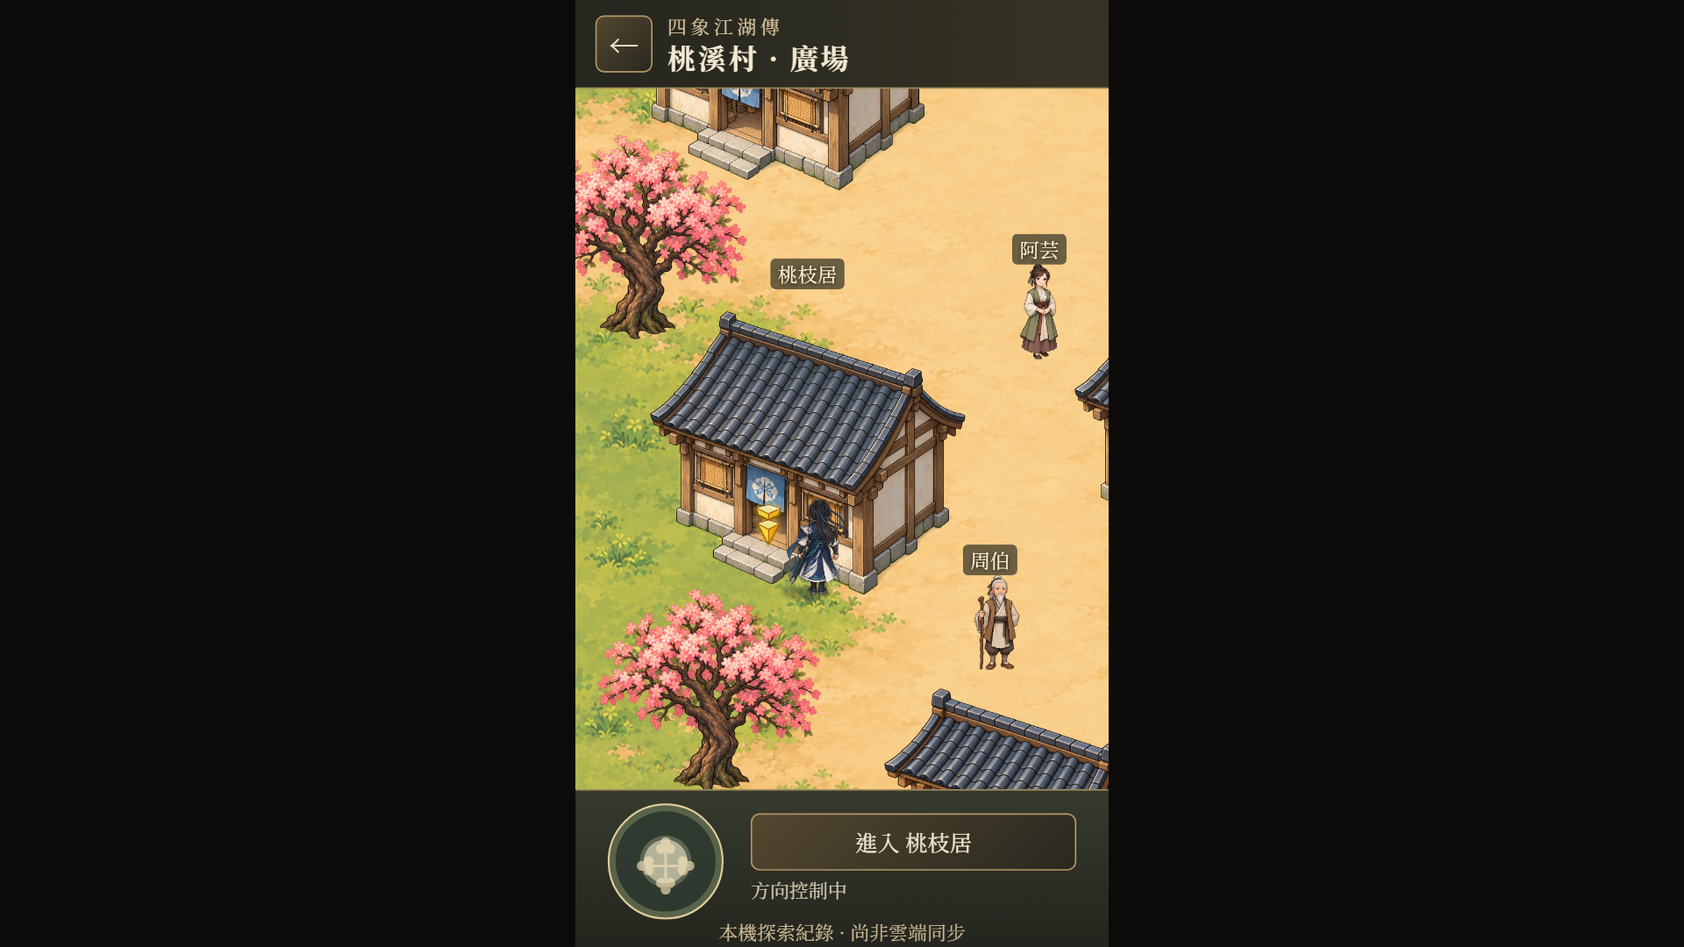
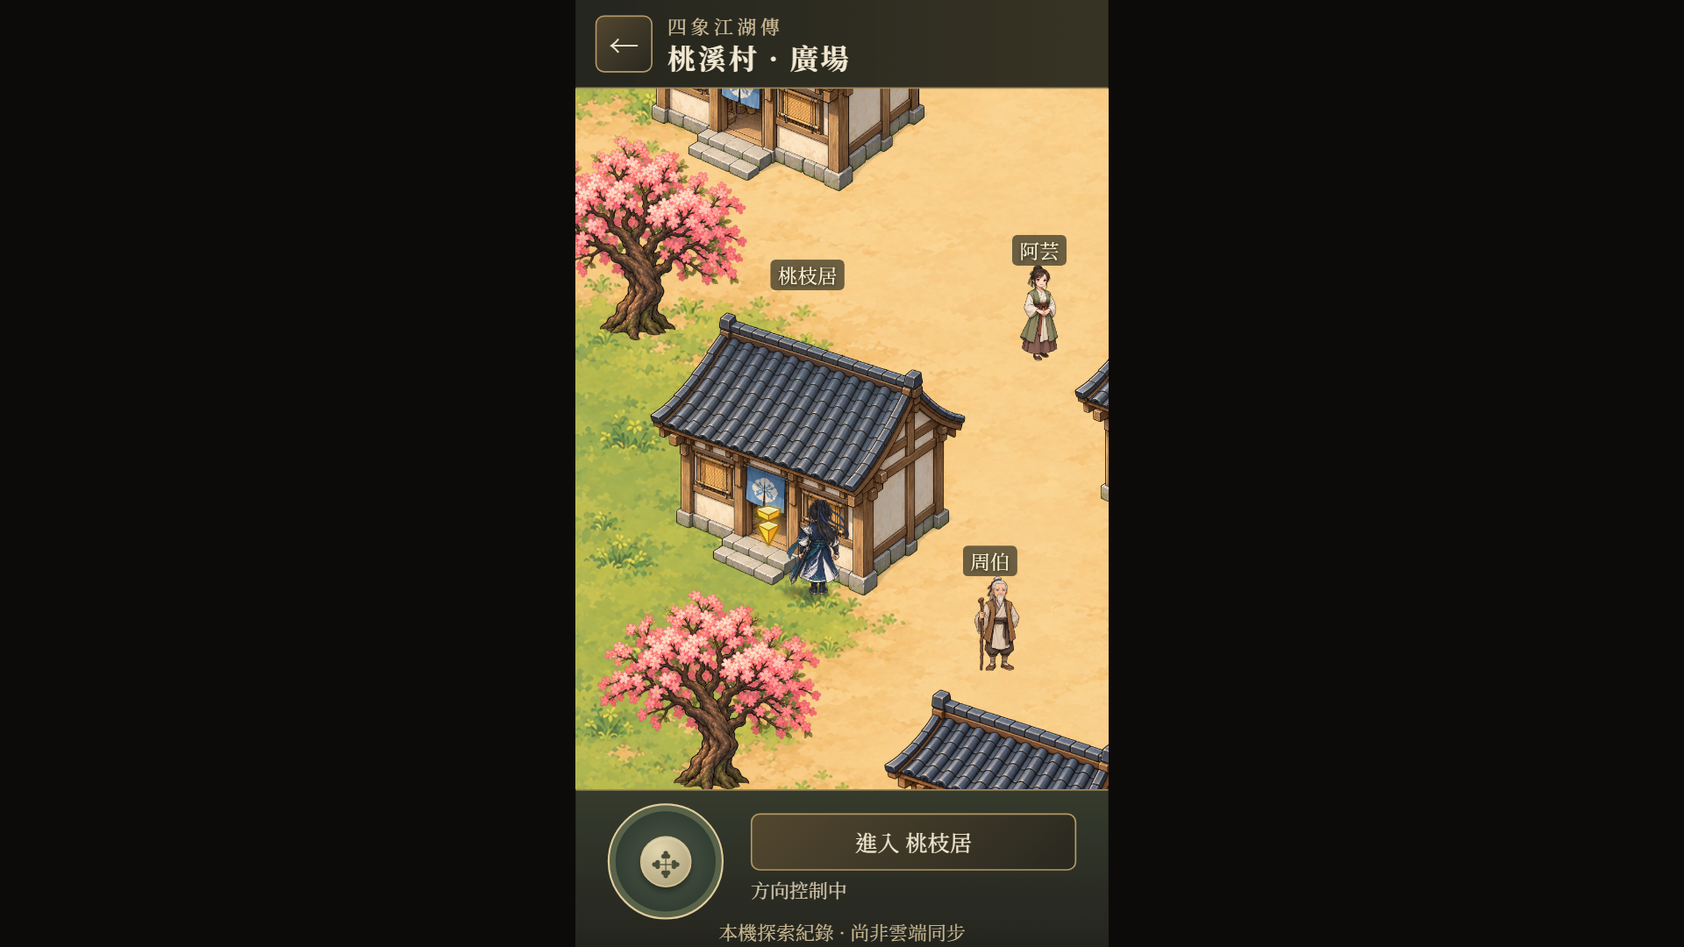
fix(exploration): refine touch feedback and NPC proximity after USB UX

diff --git a/build/feature-adventure-ui.232fe02442a6.js b/build/feature-adventure-ui.232fe02442a6.js
@@ -903,12 +903,14 @@ function mount(root,services={}){
   const eventToPoint=services.eventToPoint||scope.eventToGamePoint;
   if(typeof eventToPoint!=='function')throw new Error('Exploration requires the existing Display coordinate service');
   const data=services.scene||scene;
-  const nearby=position=>services.scene?data.objects.filter(o=>o.interaction&&Math.hypot(position.x-o.approach.x,position.y-o.approach.y)<(o.range||145)).sort((a,b)=>Math.hypot(position.x-a.approach.x,position.y-a.approach.y)-Math.hypot(position.x-b.approach.x,position.y-b.approach.y))[0]:nearNpc(position)?{id:'npc',label:'與村民招呼 · E'}:null;
-  let analog=null;
+  const distance=(position,object)=>{const point=object.interactionPoint||object.approach;return Math.hypot(position.x-point.x,position.y-point.y);};
+  const nearby=position=>services.scene?data.objects.filter(o=>o.interaction&&distance(position,o)<(o.range||145)).sort((a,b)=>distance(position,a)-distance(position,b))[0]:nearNpc(position)?{id:'npc',label:'與村民招呼 · E'}:null;
+  let analog=null,stickVector=null,thumbTransform=null;
   const world=root.querySelector('[data-world]'),actor=root.querySelector('[data-player]');
   const sprites=[...actor.querySelectorAll('[data-pose]')];
   const prompt=root.querySelector('[data-interact]');
   const viewport=root.querySelector('.explore-viewport'),marker=root.querySelector('[data-destination]'),status=root.querySelector('[data-status]');
+  const stick=root.querySelector('[data-joystick]'),thumb=stick?.querySelector('[data-stick-thumb]');
   const directions=new Map(),captures=new Map();
   let abort=null,active=false,generation=0,interactionGeneration=0,interactionCleanup=null;
   let state={...data.spawn,facing:'up',moving:false},frame=0,last=0,opened=false,disposed=false;
@@ -923,7 +925,7 @@ function mount(root,services={}){
   function cancelRoute(){route=[];destination=null;gesture=null;arrivalTarget=null;}
   function clearInput(){
     for(const [id,el] of captures){if(el.hasPointerCapture(id))el.releasePointerCapture(id);}
-    captures.clear();directions.clear();analog=null;cancelRoute();state.moving=false;last=0;render();
+    captures.clear();directions.clear();analog=null;stickVector=null;cancelRoute();state.moving=false;last=0;render();
   }
   function endInteraction(){
     interactionGeneration++;
@@ -934,7 +936,7 @@ function mount(root,services={}){
     try{endInteraction();}finally{clearInput();if(active)root.focus({preventScroll:true});}
   }
   function interact(targetId){
-    const target=typeof targetId==='string'?data.objects.find(o=>o.id===targetId&&o.interaction&&Math.hypot(state.x-o.approach.x,state.y-o.approach.y)<(o.range||145)):nearby(state);
+    const target=typeof targetId==='string'?data.objects.find(o=>o.id===targetId&&o.interaction&&distance(state,o)<(o.range||145)):nearby(state);
     if(!active||opened||!target)return;
     if(typeof services.onInteract!=='function'){status.textContent='對話尚未接通';return;}
     opened=true;clearInput();const token=generation,interactionToken=++interactionGeneration;
@@ -959,7 +961,7 @@ function mount(root,services={}){
   const signal=abort.signal;
   const keys={ArrowUp:'up',w:'up',W:'up',ArrowDown:'down',s:'down',S:'down',ArrowLeft:'left',a:'left',A:'left',ArrowRight:'right',d:'right',D:'right'};
   root.addEventListener('keydown',e=>{
-    if(keys[e.key]){e.preventDefault();if(!opened&&!e.repeat){cancelRoute();analog=null;directions.set('key:'+e.code,keys[e.key]);status.textContent='方向控制中';}}
+    if(keys[e.key]){e.preventDefault();if(!opened&&!e.repeat){cancelRoute();analog=null;stickVector=null;directions.set('key:'+e.code,keys[e.key]);status.textContent='方向控制中';}}
     if((e.key==='e'||e.key==='E')&&!e.repeat){e.preventDefault();interact();}
     if(e.key==='Escape'){e.preventDefault();if(opened)closeInteraction();else requestExit();}
   },{signal});
@@ -978,7 +980,7 @@ function mount(root,services={}){
     gesture={id:e.pointerId};viewport.setPointerCapture(e.pointerId);captures.set(e.pointerId,viewport);
     // Commit at contact, using the current position/camera. Release must not
     // replay a stale target after the character and camera have moved.
-    e.preventDefault();directions.clear();analog=null;
+    e.preventDefault();directions.clear();analog=null;stickVector=null;
     let point;
     try{
       point=eventToPoint(e);
@@ -997,14 +999,14 @@ function mount(root,services={}){
   },{signal});
   viewport.addEventListener('pointerup',e=>{captures.delete(e.pointerId);if(gesture?.id===e.pointerId)gesture=null;},{signal});
   viewport.addEventListener('pointercancel',e=>{if(gesture?.id===e.pointerId)clearInput();},{signal});
-  const joystick=root.querySelector('[data-joystick]');
+  const joystick=stick;
   if(joystick){
     let stickId=null;
     const point=e=>{const p=eventToPoint(e);return [p.x-joystick.offsetLeft-joystick.offsetWidth/2,p.y-(joystick.parentElement.offsetTop||0)-joystick.offsetTop-joystick.offsetHeight/2];};
-    const update=e=>{if(e.pointerId!==stickId)return;e.preventDefault();const [x,y]=point(e);analog=Math.hypot(x,y)>18?[x,y]:null;};
+    const update=e=>{if(e.pointerId!==stickId)return;e.preventDefault();const [x,y]=point(e);stickVector=[x,y];analog=Math.hypot(x,y)>18?stickVector:null;};
     joystick.addEventListener('pointerdown',e=>{if(opened||stickId!==null||!e.isPrimary)return;e.preventDefault();stickId=e.pointerId;cancelRoute();directions.clear();joystick.setPointerCapture(e.pointerId);captures.set(e.pointerId,joystick);update(e);},{signal});
     joystick.addEventListener('pointermove',update,{signal});
-    for(const type of ['pointerup','pointercancel','lostpointercapture'])joystick.addEventListener(type,e=>{if(e.pointerId===stickId){stickId=null;analog=null;captures.delete(e.pointerId);}},{signal});
+    for(const type of ['pointerup','pointercancel','lostpointercapture'])joystick.addEventListener(type,e=>{if(e.pointerId===stickId){stickId=null;analog=null;stickVector=null;captures.delete(e.pointerId);}},{signal});
   }
   prompt.addEventListener('click',interact,{signal});
   root.querySelector('[data-exit]')?.addEventListener('click',requestExit,{signal});
@@ -1017,6 +1019,12 @@ function mount(root,services={}){
     world.style.transform=`translate(${-camera.x}px,${-camera.y}px)`;
     actor.style.left=state.x+'px';actor.style.top=state.y+'px';actor.style.zIndex=String(Math.round(state.y));
     actor.dataset.facing=state.facing;actor.classList.toggle('is-walking',state.moving);
+    if(stick){
+      stick.classList.toggle('is-held',[...captures.values()].includes(stick));
+      if(thumb){const length=stickVector?Math.hypot(...stickVector):0,max=Math.max(0,(stick.offsetWidth-thumb.offsetWidth)/2-10),scale=length?Math.min(1,max/length):0;
+        const x=stickVector?stickVector[0]*scale:0,y=stickVector?stickVector[1]*scale:0,value=`translate(calc(-50% + ${x.toFixed(1)}px),calc(-50% + ${y.toFixed(1)}px))`;
+        if(thumbTransform!==value){thumb.style.transform=value;thumbTransform=value;}}
+    }
     const pose=state.moving?(Math.floor(walkTime/.16)%4===0?1:Math.floor(walkTime/.16)%4===2?2:0):0;
     // Keep external SVG instances stable: changing href briefly clears their
     // geometry in Chrome. The same render owner selects one preloaded pose.
@@ -1118,7 +1126,7 @@ function village(spawn){
     {id:'gate-left',art:'solid',x:0,y:0,width:0,height:0,solid:{x:680,y:2910,width:65,height:65}},
     {id:'gate-right',art:'solid',x:0,y:0,width:0,height:0,solid:{x:1060,y:2980,width:70,height:70}},
     ...houses.map(h=>({...h,art:'house',width:660,height:660,sortY:h.y-65,solid:{x:h.x-260,y:h.y-370,width:520,height:305},approach:{x:h.x-80,y:h.y+40},hitbox:{x:h.x-120,y:h.y-240,width:240,height:350},interaction:'house',label:'進入 '+h.name})),
-    ...npcs.map(n=>({...n,art:'npc',width:200,height:200,approach:{x:n.x,y:n.y+100},hitbox:{x:n.x-45,y:n.y-185,width:90,height:185},interaction:'talk',label:'交談 · '+n.name})),
+    ...npcs.map(n=>({...n,art:'npc',width:200,height:200,approach:{x:n.x,y:n.y+100},interactionPoint:{x:n.x,y:n.y},hitbox:{x:n.x-45,y:n.y-185,width:90,height:185},interaction:'talk',label:'交談 · '+n.name})),
     ...[[280,2810],[1520,2750],[130,1890],[1690,1710],[150,830],[1640,650]].map(([x,y],i)=>({id:'peach-'+i,art:'peach',x,y,width:480,height:600,solid:{x:x-23,y:y-50,width:46,height:50}}))
   ]};
 }
@@ -1245,7 +1253,7 @@ function scene(id,spawn){
     '<div class="explore-viewport taoxi-viewport"><div class="explore-world taoxi-world" data-world style="width:'+data.width+'px;height:'+data.height+'px">'+
     '<div class="taoxi-ground '+(id==='village'?'taoxi-village-ground':'taoxi-room-ground')+'"></div>'+
     '<div class="explore-player taoxi-player" data-player><span class="explore-shadow"></span><span class="taoxi-character" style="background-image:url('+asset(appearance)+')"></span></div><span class="explore-destination" data-destination hidden></span></div></div>'+
-    '<footer class="taoxi-controls"><div data-joystick class="taoxi-joystick" aria-label="虛擬搖桿"><span aria-hidden="true">✥</span></div><div><button type="button" data-interact disabled>靠近可互動</button><p data-status role="status">點地移動，也可拖動左側搖桿。</p></div></footer>'+
+    '<footer class="taoxi-controls"><div data-joystick class="taoxi-joystick" aria-label="虛擬搖桿"><span data-stick-thumb aria-hidden="true">✥</span></div><div><button type="button" data-interact disabled>靠近可互動</button><p data-status role="status">點地移動，也可拖動左側搖桿。</p></div></footer>'+
     '<p class="taoxi-save-note">本機探索紀錄 · 尚非雲端同步</p>';
   const character=root.querySelector('.taoxi-character');
   controller=scope.FourSymbolsExploration.mount(root,{

diff --git a/prototypes/exploration-corner/runtime.js b/prototypes/exploration-corner/runtime.js
@@ -12,12 +12,14 @@ function mount(root,services={}){
   const eventToPoint=services.eventToPoint||scope.eventToGamePoint;
   if(typeof eventToPoint!=='function')throw new Error('Exploration requires the existing Display coordinate service');
   const data=services.scene||scene;
-  const nearby=position=>services.scene?data.objects.filter(o=>o.interaction&&Math.hypot(position.x-o.approach.x,position.y-o.approach.y)<(o.range||145)).sort((a,b)=>Math.hypot(position.x-a.approach.x,position.y-a.approach.y)-Math.hypot(position.x-b.approach.x,position.y-b.approach.y))[0]:nearNpc(position)?{id:'npc',label:'與村民招呼 · E'}:null;
-  let analog=null;
+  const distance=(position,object)=>{const point=object.interactionPoint||object.approach;return Math.hypot(position.x-point.x,position.y-point.y);};
+  const nearby=position=>services.scene?data.objects.filter(o=>o.interaction&&distance(position,o)<(o.range||145)).sort((a,b)=>distance(position,a)-distance(position,b))[0]:nearNpc(position)?{id:'npc',label:'與村民招呼 · E'}:null;
+  let analog=null,stickVector=null,thumbTransform=null;
   const world=root.querySelector('[data-world]'),actor=root.querySelector('[data-player]');
   const sprites=[...actor.querySelectorAll('[data-pose]')];
   const prompt=root.querySelector('[data-interact]');
   const viewport=root.querySelector('.explore-viewport'),marker=root.querySelector('[data-destination]'),status=root.querySelector('[data-status]');
+  const stick=root.querySelector('[data-joystick]'),thumb=stick?.querySelector('[data-stick-thumb]');
   const directions=new Map(),captures=new Map();
   let abort=null,active=false,generation=0,interactionGeneration=0,interactionCleanup=null;
   let state={...data.spawn,facing:'up',moving:false},frame=0,last=0,opened=false,disposed=false;
@@ -32,7 +34,7 @@ function mount(root,services={}){
   function cancelRoute(){route=[];destination=null;gesture=null;arrivalTarget=null;}
   function clearInput(){
     for(const [id,el] of captures){if(el.hasPointerCapture(id))el.releasePointerCapture(id);}
-    captures.clear();directions.clear();analog=null;cancelRoute();state.moving=false;last=0;render();
+    captures.clear();directions.clear();analog=null;stickVector=null;cancelRoute();state.moving=false;last=0;render();
   }
   function endInteraction(){
     interactionGeneration++;
@@ -43,7 +45,7 @@ function mount(root,services={}){
     try{endInteraction();}finally{clearInput();if(active)root.focus({preventScroll:true});}
   }
   function interact(targetId){
-    const target=typeof targetId==='string'?data.objects.find(o=>o.id===targetId&&o.interaction&&Math.hypot(state.x-o.approach.x,state.y-o.approach.y)<(o.range||145)):nearby(state);
+    const target=typeof targetId==='string'?data.objects.find(o=>o.id===targetId&&o.interaction&&distance(state,o)<(o.range||145)):nearby(state);
     if(!active||opened||!target)return;
     if(typeof services.onInteract!=='function'){status.textContent='對話尚未接通';return;}
     opened=true;clearInput();const token=generation,interactionToken=++interactionGeneration;
@@ -68,7 +70,7 @@ function mount(root,services={}){
   const signal=abort.signal;
   const keys={ArrowUp:'up',w:'up',W:'up',ArrowDown:'down',s:'down',S:'down',ArrowLeft:'left',a:'left',A:'left',ArrowRight:'right',d:'right',D:'right'};
   root.addEventListener('keydown',e=>{
-    if(keys[e.key]){e.preventDefault();if(!opened&&!e.repeat){cancelRoute();analog=null;directions.set('key:'+e.code,keys[e.key]);status.textContent='方向控制中';}}
+    if(keys[e.key]){e.preventDefault();if(!opened&&!e.repeat){cancelRoute();analog=null;stickVector=null;directions.set('key:'+e.code,keys[e.key]);status.textContent='方向控制中';}}
     if((e.key==='e'||e.key==='E')&&!e.repeat){e.preventDefault();interact();}
     if(e.key==='Escape'){e.preventDefault();if(opened)closeInteraction();else requestExit();}
   },{signal});
@@ -87,7 +89,7 @@ function mount(root,services={}){
     gesture={id:e.pointerId};viewport.setPointerCapture(e.pointerId);captures.set(e.pointerId,viewport);
     // Commit at contact, using the current position/camera. Release must not
     // replay a stale target after the character and camera have moved.
-    e.preventDefault();directions.clear();analog=null;
+    e.preventDefault();directions.clear();analog=null;stickVector=null;
     let point;
     try{
       point=eventToPoint(e);
@@ -106,14 +108,14 @@ function mount(root,services={}){
   },{signal});
   viewport.addEventListener('pointerup',e=>{captures.delete(e.pointerId);if(gesture?.id===e.pointerId)gesture=null;},{signal});
   viewport.addEventListener('pointercancel',e=>{if(gesture?.id===e.pointerId)clearInput();},{signal});
-  const joystick=root.querySelector('[data-joystick]');
+  const joystick=stick;
   if(joystick){
     let stickId=null;
     const point=e=>{const p=eventToPoint(e);return [p.x-joystick.offsetLeft-joystick.offsetWidth/2,p.y-(joystick.parentElement.offsetTop||0)-joystick.offsetTop-joystick.offsetHeight/2];};
-    const update=e=>{if(e.pointerId!==stickId)return;e.preventDefault();const [x,y]=point(e);analog=Math.hypot(x,y)>18?[x,y]:null;};
+    const update=e=>{if(e.pointerId!==stickId)return;e.preventDefault();const [x,y]=point(e);stickVector=[x,y];analog=Math.hypot(x,y)>18?stickVector:null;};
     joystick.addEventListener('pointerdown',e=>{if(opened||stickId!==null||!e.isPrimary)return;e.preventDefault();stickId=e.pointerId;cancelRoute();directions.clear();joystick.setPointerCapture(e.pointerId);captures.set(e.pointerId,joystick);update(e);},{signal});
     joystick.addEventListener('pointermove',update,{signal});
-    for(const type of ['pointerup','pointercancel','lostpointercapture'])joystick.addEventListener(type,e=>{if(e.pointerId===stickId){stickId=null;analog=null;captures.delete(e.pointerId);}},{signal});
+    for(const type of ['pointerup','pointercancel','lostpointercapture'])joystick.addEventListener(type,e=>{if(e.pointerId===stickId){stickId=null;analog=null;stickVector=null;captures.delete(e.pointerId);}},{signal});
   }
   prompt.addEventListener('click',interact,{signal});
   root.querySelector('[data-exit]')?.addEventListener('click',requestExit,{signal});
@@ -126,6 +128,12 @@ function mount(root,services={}){
     world.style.transform=`translate(${-camera.x}px,${-camera.y}px)`;
     actor.style.left=state.x+'px';actor.style.top=state.y+'px';actor.style.zIndex=String(Math.round(state.y));
     actor.dataset.facing=state.facing;actor.classList.toggle('is-walking',state.moving);
+    if(stick){
+      stick.classList.toggle('is-held',[...captures.values()].includes(stick));
+      if(thumb){const length=stickVector?Math.hypot(...stickVector):0,max=Math.max(0,(stick.offsetWidth-thumb.offsetWidth)/2-10),scale=length?Math.min(1,max/length):0;
+        const x=stickVector?stickVector[0]*scale:0,y=stickVector?stickVector[1]*scale:0,value=`translate(calc(-50% + ${x.toFixed(1)}px),calc(-50% + ${y.toFixed(1)}px))`;
+        if(thumbTransform!==value){thumb.style.transform=value;thumbTransform=value;}}
+    }
     const pose=state.moving?(Math.floor(walkTime/.16)%4===0?1:Math.floor(walkTime/.16)%4===2?2:0):0;
     // Keep external SVG instances stable: changing href briefly clears their
     // geometry in Chrome. The same render owner selects one preloaded pose.

diff --git a/build/feature-adventure.d8e9cb36cb8f.css b/build/feature-adventure.d8e9cb36cb8f.css
@@ -217,8 +217,9 @@
 .taoxi-villager{width:100%;height:100%}.taoxi-villager.elder{filter:sepia(.6)}.taoxi-villager.ayun{filter:hue-rotate(15deg)}
 .taoxi-controls{position:absolute;left:0;right:0;top:1600px;height:320px;display:flex;gap:55px;align-items:center;padding:20px 65px 50px;background:linear-gradient(0deg,#25251ffb,#373d2fe8);border-top:3px solid #a28b5c;z-index:5000}
 .taoxi-controls>div:last-child{flex:1;min-width:0}.taoxi-controls button{width:100%}.taoxi-controls p{font-size:39px;line-height:1.4;margin:12px 0;color:#d6c9ae}
-.taoxi-joystick{position:relative;width:235px;height:235px;flex-shrink:0;border:4px solid #e0cc9b;border-radius:50%;background:radial-gradient(circle,#b3b298 0 27%,#686e5bd9 28% 32%,#303c32cc 33%);box-shadow:inset 0 0 0 12px #596349;touch-action:none;text-align:center}
-.taoxi-joystick span{font-size:160px;line-height:220px;color:#f2dfb5aa;pointer-events:none}
+.taoxi-joystick{position:relative;width:235px;height:235px;flex-shrink:0;border:4px solid #e0cc9b;border-radius:50%;background:radial-gradient(circle,#56624ed9,#303c32ee 70%);box-shadow:inset 0 0 0 12px #596349;touch-action:none;text-align:center}
+.taoxi-joystick span{position:absolute;left:50%;top:50%;width:104px;height:104px;border:3px solid #d9c591;border-radius:50%;background:radial-gradient(circle at 35% 25%,#e2d6b0,#a79a73);box-shadow:0 8px 14px #1118,inset 0 2px 5px #fff6;font-size:76px;line-height:98px;color:#4a4c37;transform:translate(-50%,-50%);pointer-events:none}
+.taoxi-joystick.is-held{border-color:#fff0bb;box-shadow:inset 0 0 0 12px #687755,0 0 18px #e0cc9b55}
 .taoxi-save-note{position:absolute;bottom:3px;left:0;right:0;margin:0;text-align:center;font-size:39px;color:#cfbd95;z-index:5001;pointer-events:none}
 .adventure-transient-dialogue{position:absolute;left:55px;right:55px;bottom:380px;padding:42px;background:#25251ff5;border:4px solid #c5a265;box-shadow:0 15px 50px #0008;z-index:6000;color:#f4ead4;font-family:"Noto Serif TC",serif}
 .adventure-transient-dialogue h2{font-size:50px;margin:0;color:#e8c98a}.adventure-transient-dialogue p{font-size:46px;line-height:1.6;margin:22px 0 32px}.adventure-transient-dialogue button{width:100%}

diff --git a/css/taoxi-exploration.css b/css/taoxi-exploration.css
@@ -34,8 +34,9 @@
 .taoxi-villager{width:100%;height:100%}.taoxi-villager.elder{filter:sepia(.6)}.taoxi-villager.ayun{filter:hue-rotate(15deg)}
 .taoxi-controls{position:absolute;left:0;right:0;top:1600px;height:320px;display:flex;gap:55px;align-items:center;padding:20px 65px 50px;background:linear-gradient(0deg,#25251ffb,#373d2fe8);border-top:3px solid #a28b5c;z-index:5000}
 .taoxi-controls>div:last-child{flex:1;min-width:0}.taoxi-controls button{width:100%}.taoxi-controls p{font-size:39px;line-height:1.4;margin:12px 0;color:#d6c9ae}
-.taoxi-joystick{position:relative;width:235px;height:235px;flex-shrink:0;border:4px solid #e0cc9b;border-radius:50%;background:radial-gradient(circle,#b3b298 0 27%,#686e5bd9 28% 32%,#303c32cc 33%);box-shadow:inset 0 0 0 12px #596349;touch-action:none;text-align:center}
-.taoxi-joystick span{font-size:160px;line-height:220px;color:#f2dfb5aa;pointer-events:none}
+.taoxi-joystick{position:relative;width:235px;height:235px;flex-shrink:0;border:4px solid #e0cc9b;border-radius:50%;background:radial-gradient(circle,#56624ed9,#303c32ee 70%);box-shadow:inset 0 0 0 12px #596349;touch-action:none;text-align:center}
+.taoxi-joystick span{position:absolute;left:50%;top:50%;width:104px;height:104px;border:3px solid #d9c591;border-radius:50%;background:radial-gradient(circle at 35% 25%,#e2d6b0,#a79a73);box-shadow:0 8px 14px #1118,inset 0 2px 5px #fff6;font-size:76px;line-height:98px;color:#4a4c37;transform:translate(-50%,-50%);pointer-events:none}
+.taoxi-joystick.is-held{border-color:#fff0bb;box-shadow:inset 0 0 0 12px #687755,0 0 18px #e0cc9b55}
 .taoxi-save-note{position:absolute;bottom:3px;left:0;right:0;margin:0;text-align:center;font-size:39px;color:#cfbd95;z-index:5001;pointer-events:none}
 .adventure-transient-dialogue{position:absolute;left:55px;right:55px;bottom:380px;padding:42px;background:#25251ff5;border:4px solid #c5a265;box-shadow:0 15px 50px #0008;z-index:6000;color:#f4ead4;font-family:"Noto Serif TC",serif}
 .adventure-transient-dialogue h2{font-size:50px;margin:0;color:#e8c98a}.adventure-transient-dialogue p{font-size:46px;line-height:1.6;margin:22px 0 32px}.adventure-transient-dialogue button{width:100%}

diff --git a/js/exploration/taoxi-ui.js b/js/exploration/taoxi-ui.js
@@ -56,7 +56,7 @@ function scene(id,spawn){
     '<div class="explore-viewport taoxi-viewport"><div class="explore-world taoxi-world" data-world style="width:'+data.width+'px;height:'+data.height+'px">'+
     '<div class="taoxi-ground '+(id==='village'?'taoxi-village-ground':'taoxi-room-ground')+'"></div>'+
     '<div class="explore-player taoxi-player" data-player><span class="explore-shadow"></span><span class="taoxi-character" style="background-image:url('+asset(appearance)+')"></span></div><span class="explore-destination" data-destination hidden></span></div></div>'+
-    '<footer class="taoxi-controls"><div data-joystick class="taoxi-joystick" aria-label="虛擬搖桿"><span aria-hidden="true">✥</span></div><div><button type="button" data-interact disabled>靠近可互動</button><p data-status role="status">點地移動，也可拖動左側搖桿。</p></div></footer>'+
+    '<footer class="taoxi-controls"><div data-joystick class="taoxi-joystick" aria-label="虛擬搖桿"><span data-stick-thumb aria-hidden="true">✥</span></div><div><button type="button" data-interact disabled>靠近可互動</button><p data-status role="status">點地移動，也可拖動左側搖桿。</p></div></footer>'+
     '<p class="taoxi-save-note">本機探索紀錄 · 尚非雲端同步</p>';
   const character=root.querySelector('.taoxi-character');
   controller=scope.FourSymbolsExploration.mount(root,{

diff --git a/js/exploration/taoxi-content.js b/js/exploration/taoxi-content.js
@@ -40,7 +40,7 @@ function village(spawn){
     {id:'gate-left',art:'solid',x:0,y:0,width:0,height:0,solid:{x:680,y:2910,width:65,height:65}},
     {id:'gate-right',art:'solid',x:0,y:0,width:0,height:0,solid:{x:1060,y:2980,width:70,height:70}},
     ...houses.map(h=>({...h,art:'house',width:660,height:660,sortY:h.y-65,solid:{x:h.x-260,y:h.y-370,width:520,height:305},approach:{x:h.x-80,y:h.y+40},hitbox:{x:h.x-120,y:h.y-240,width:240,height:350},interaction:'house',label:'進入 '+h.name})),
-    ...npcs.map(n=>({...n,art:'npc',width:200,height:200,approach:{x:n.x,y:n.y+100},hitbox:{x:n.x-45,y:n.y-185,width:90,height:185},interaction:'talk',label:'交談 · '+n.name})),
+    ...npcs.map(n=>({...n,art:'npc',width:200,height:200,approach:{x:n.x,y:n.y+100},interactionPoint:{x:n.x,y:n.y},hitbox:{x:n.x-45,y:n.y-185,width:90,height:185},interaction:'talk',label:'交談 · '+n.name})),
     ...[[280,2810],[1520,2750],[130,1890],[1690,1710],[150,830],[1640,650]].map(([x,y],i)=>({id:'peach-'+i,art:'peach',x,y,width:480,height:600,solid:{x:x-23,y:y-50,width:46,height:50}}))
   ]};
 }
